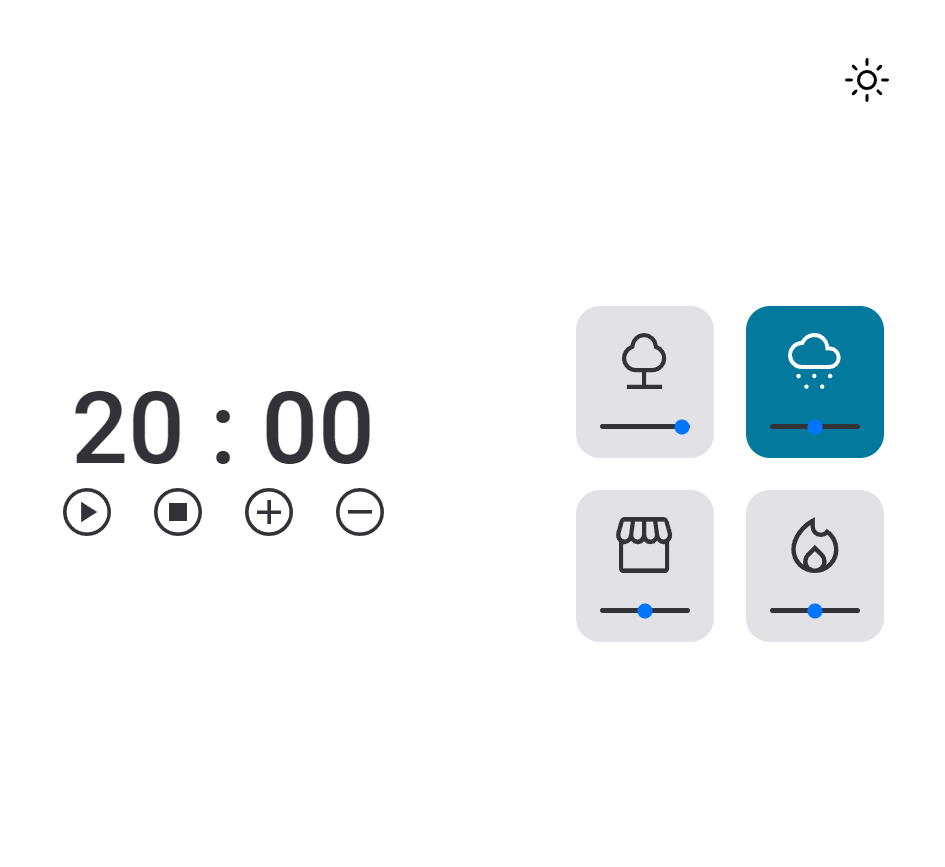
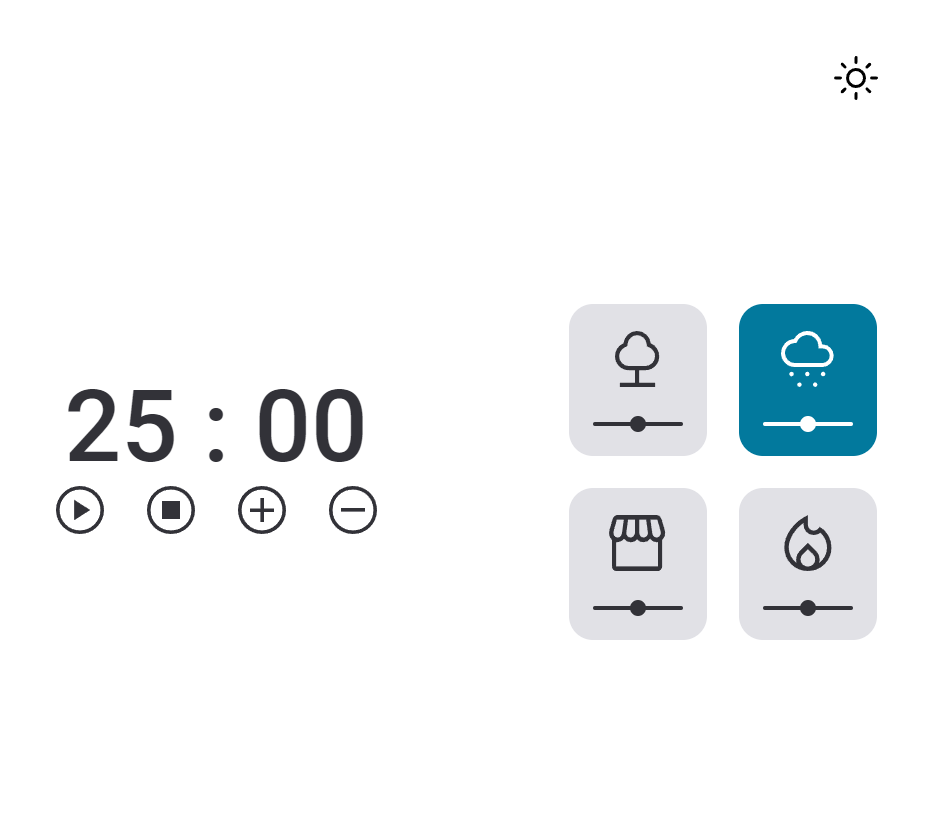
Add an prevent default kind of function to avoid bubbling effect from slider input and cards. Css Adjustments on the slider component.

Changed region(s): [[0.5925, 0.3333, 0.9667, 0.7879], [0.0624, 0.4545, 0.4054, 0.6667], [0.9043, 0.0606, 0.9355, 0.1212]]

diff --git a/index.html b/index.html
@@ -100,6 +100,7 @@
         <svg width="53" height="56" viewBox="0 0 53 56" fill="none" xmlns="http://www.w3.org/2000/svg">
           <path d="M10.5263 45.3333C9.91228 45.3333 9.375 45.1 8.91447 44.6333C8.45395 44.1667 8.22368 43.6222 8.22368 43C8.22368 42.3778 8.45395 41.8333 8.91447 41.3667C9.375 40.9 9.91228 40.6667 10.5263 40.6667C11.1404 40.6667 11.6776 40.9 12.1382 41.3667C12.5987 41.8333 12.8289 42.3778 12.8289 43C12.8289 43.6222 12.5987 44.1667 12.1382 44.6333C11.6776 45.1 11.1404 45.3333 10.5263 45.3333ZM42.1053 45.3333C41.4912 45.3333 40.9539 45.1 40.4934 44.6333C40.0329 44.1667 39.8026 43.6222 39.8026 43C39.8026 42.3778 40.0329 41.8333 40.4934 41.3667C40.9539 40.9 41.4912 40.6667 42.1053 40.6667C42.7193 40.6667 43.2566 40.9 43.7171 41.3667C44.1776 41.8333 44.4079 42.3778 44.4079 43C44.4079 43.6222 44.1776 44.1667 43.7171 44.6333C43.2566 45.1 42.7193 45.3333 42.1053 45.3333ZM18.4211 56C17.807 56 17.2697 55.7667 16.8092 55.3C16.3487 54.8333 16.1184 54.2889 16.1184 53.6667C16.1184 53.0444 16.3487 52.5 16.8092 52.0333C17.2697 51.5667 17.807 51.3333 18.4211 51.3333C19.0351 51.3333 19.5724 51.5667 20.0329 52.0333C20.4934 52.5 20.7237 53.0444 20.7237 53.6667C20.7237 54.2889 20.4934 54.8333 20.0329 55.3C19.5724 55.7667 19.0351 56 18.4211 56ZM26.3158 45.3333C25.7018 45.3333 25.1645 45.1 24.7039 44.6333C24.2434 44.1667 24.0132 43.6222 24.0132 43C24.0132 42.3778 24.2434 41.8333 24.7039 41.3667C25.1645 40.9 25.7018 40.6667 26.3158 40.6667C26.9298 40.6667 27.4671 40.9 27.9276 41.3667C28.3882 41.8333 28.6184 42.3778 28.6184 43C28.6184 43.6222 28.3882 44.1667 27.9276 44.6333C27.4671 45.1 26.9298 45.3333 26.3158 45.3333ZM34.2105 56C33.5965 56 33.0592 55.7667 32.5987 55.3C32.1382 54.8333 31.9079 54.2889 31.9079 53.6667C31.9079 53.0444 32.1382 52.5 32.5987 52.0333C33.0592 51.5667 33.5965 51.3333 34.2105 51.3333C34.8246 51.3333 35.3618 51.5667 35.8224 52.0333C36.2829 52.5 36.5132 53.0444 36.5132 53.6667C36.5132 54.2889 36.2829 54.8333 35.8224 55.3C35.3618 55.7667 34.8246 56 34.2105 56ZM13.8158 36C10 36 6.74342 34.6333 4.04605 31.9C1.34868 29.1667 0 25.8667 0 22C0 18.4889 1.23903 15.3556 3.7171 12.6C6.19518 9.84444 9.27632 8.33333 12.9605 8.06667C14.364 5.57778 16.2171 3.61111 18.5197 2.16667C20.8224 0.722222 23.4211 0 26.3158 0C30.307 0 33.6513 1.27778 36.3487 3.83333C39.0461 6.38889 40.7018 9.55556 41.3158 13.3333C44.7807 13.5111 47.5329 14.7 49.5724 16.9C51.6118 19.1 52.6316 21.6889 52.6316 24.6667C52.6316 27.7778 51.5461 30.4444 49.375 32.6667C47.2039 34.8889 44.5614 36 41.4474 36H13.8158ZM13.8158 32H41.4474C43.4649 32 45.1754 31.2778 46.5789 29.8333C47.9825 28.3889 48.6842 26.6444 48.6842 24.6C48.6842 22.6 47.9825 20.8889 46.5789 19.4667C45.1754 18.0444 43.4649 17.3333 41.4474 17.3333H37.5V15.3333C37.5 12.1778 36.4145 9.5 34.2434 7.3C32.0724 5.1 29.4298 4 26.3158 4C24.0789 4 22.0285 4.61111 20.1645 5.83333C18.3004 7.05556 16.9298 8.71111 16.0526 10.8L15.5263 12H13.6842C10.9649 12.0889 8.66228 13.1 6.77632 15.0333C4.89035 16.9667 3.94737 19.2889 3.94737 22C3.94737 24.7556 4.91228 27.1111 6.8421 29.0667C8.77193 31.0222 11.0965 32 13.8158 32Z" fill="#323238"/>
         </svg>
+
         <input class="volume-control" type="range" min="0" max="1" value="0.5" step="0.1" id="input-rain" />
       </button>
 
@@ -107,6 +108,7 @@
         <svg width="57" height="56" viewBox="0 0 57 56" fill="none" xmlns="http://www.w3.org/2000/svg">
           <path d="M53.1836 24.9667V51.3333C53.1836 52.5778 52.7657 53.6667 51.9298 54.6C51.0939 55.5333 50.1187 56 49.0043 56H7.14108C6.02659 56 5.0514 55.5333 4.21553 54.6C3.37966 53.6667 2.96173 52.5778 2.96173 51.3333V24.9667C1.66149 23.7222 0.802397 22.1926 0.384462 20.3778C-0.0334729 18.563 0.0129642 16.7481 0.523774 14.9333L3.51898 4.43333C3.89047 3.03333 4.5406 1.94444 5.46934 1.16667C6.39809 0.388889 7.46614 0 8.67351 0H47.1932C48.4934 0 49.6312 0.401852 50.6063 1.20556C51.5815 2.00926 52.2549 3.08519 52.6264 4.43333L55.6912 14.9333C56.202 16.7481 56.2369 18.563 55.7957 20.3778C55.3545 22.1926 54.4838 23.7222 53.1836 24.9667ZM34.3765 22.5556C35.7232 22.5556 36.8609 22.063 37.7897 21.0778C38.7184 20.0926 39.0899 18.9 38.9042 17.5L37.1628 4.66667H30.1972V17.5C30.1972 18.8481 30.5919 20.0278 31.3813 21.0389C32.1708 22.05 33.1692 22.5556 34.3765 22.5556ZM21.3509 22.5556C22.6511 22.5556 23.754 22.063 24.6595 21.0778C25.5651 20.0926 26.0178 18.9 26.0178 17.5V4.66667H19.0522L17.3108 17.5C17.1251 18.8481 17.4501 20.0278 18.286 21.0389C19.1219 22.05 20.1435 22.5556 21.3509 22.5556ZM8.67351 22.5556C9.788 22.5556 10.7516 22.1278 11.5642 21.2722C12.3769 20.4167 12.8529 19.3667 12.9922 18.1222L14.8032 4.66667H7.83764L4.63347 16.0222C4.1691 17.6296 4.35485 19.1204 5.19072 20.4944C6.02659 21.8685 7.18752 22.5556 8.67351 22.5556ZM47.4718 22.5556C48.9578 22.5556 50.1304 21.8815 50.9894 20.5333C51.8485 19.1852 52.0459 17.6815 51.5815 16.0222L48.3773 4.66667H41.4118L43.2228 18.1222C43.3621 19.3667 43.8381 20.4167 44.6508 21.2722C45.4634 22.1278 46.4038 22.5556 47.4718 22.5556ZM7.14108 51.3333H49.0043V27.1444C49.0507 27.1963 48.8998 27.2222 48.5515 27.2222C48.2032 27.2222 47.8433 27.2222 47.4718 27.2222C46.3109 27.2222 45.208 26.95 44.1632 26.4056C43.1183 25.8611 42.0851 25.0185 41.0635 23.8778C40.3205 24.9148 39.3917 25.7315 38.2773 26.3278C37.1628 26.9241 35.9322 27.2222 34.5855 27.2222C33.1924 27.2222 31.9966 27.0019 30.9982 26.5611C29.9998 26.1204 29.0362 25.3815 28.1075 24.3444C27.4109 25.2778 26.5286 25.9907 25.4606 26.4833C24.3925 26.9759 23.1851 27.2222 21.8385 27.2222C20.3989 27.2222 19.1219 26.937 18.0074 26.3667C16.8929 25.7963 15.9409 24.9667 15.1515 23.8778C14.037 24.9667 12.9457 25.7963 11.8777 26.3667C10.8096 26.937 9.74157 27.2222 8.67351 27.2222C8.34845 27.2222 8.035 27.2222 7.73316 27.2222C7.43131 27.2222 7.23395 27.1963 7.14108 27.1444V51.3333ZM49.0043 51.3333H7.14108C7.23395 51.3333 7.43131 51.3333 7.73316 51.3333C8.035 51.3333 8.34845 51.3333 8.67351 51.3333C9.46294 51.3333 10.4033 51.3333 11.4946 51.3333C12.5858 51.3333 13.8048 51.3333 15.1515 51.3333C15.5694 51.3333 16.0338 51.3333 16.5446 51.3333C17.0554 51.3333 17.6011 51.3333 18.1815 51.3333C18.762 51.3333 19.3541 51.3333 19.9578 51.3333C20.5614 51.3333 21.1883 51.3333 21.8385 51.3333C22.3493 51.3333 22.8833 51.3333 23.4406 51.3333C23.9978 51.3333 24.555 51.3333 25.1123 51.3333C25.6695 51.3333 26.2036 51.3333 26.7144 51.3333C27.2252 51.3333 27.6896 51.3333 28.1075 51.3333C29.1291 51.3333 30.1507 51.3333 31.1724 51.3333C32.194 51.3333 33.3317 51.3333 34.5855 51.3333C35.2356 51.3333 35.8741 51.3333 36.501 51.3333C37.1279 51.3333 37.72 51.3333 38.2773 51.3333C38.8345 51.3333 39.3453 51.3333 39.8097 51.3333C40.2741 51.3333 40.692 51.3333 41.0635 51.3333C42.1315 51.3333 43.1996 51.3333 44.2677 51.3333C45.3357 51.3333 46.4038 51.3333 47.4718 51.3333C47.8433 51.3333 48.2032 51.3333 48.5515 51.3333C48.8998 51.3333 49.0507 51.3333 49.0043 51.3333Z" fill="#323238"/>
         </svg>
+
         <input class="volume-control" type="range" min="0" max="1" value="0.5" step="0.1" id="input-store" />
       </button>
 
@@ -114,6 +116,7 @@
         <svg width="48" height="56" viewBox="0 0 48 56" fill="none" xmlns="http://www.w3.org/2000/svg">
           <path d="M4.72147 32.4211C4.72147 35.5158 5.42147 38.4263 6.82147 41.1526C8.22147 43.8789 10.1741 46.1509 12.6794 47.9684C12.4829 47.3789 12.3355 46.7772 12.2373 46.1632C12.139 45.5491 12.0899 44.9474 12.0899 44.3579C12.0899 42.786 12.3846 41.3123 12.9741 39.9368C13.5636 38.5614 14.4232 37.3088 15.553 36.1789L23.8794 28L32.2057 36.1789C33.3355 37.3088 34.1951 38.5614 34.7846 39.9368C35.3741 41.3123 35.6688 42.786 35.6688 44.3579C35.6688 44.9474 35.6197 45.5491 35.5215 46.1632C35.4232 46.7772 35.2759 47.3789 35.0794 47.9684C37.5846 46.1509 39.5373 43.8789 40.9373 41.1526C42.3373 38.4263 43.0373 35.5158 43.0373 32.4211C43.0373 29.7684 42.4723 27.1772 41.3425 24.6474C40.2127 22.1175 38.5916 19.7965 36.4794 17.6842C35.4478 18.4211 34.3671 18.9982 33.2373 19.4158C32.1074 19.8333 30.9776 20.0421 29.8478 20.0421C26.8513 20.0421 24.3706 19.0228 22.4057 16.9842C20.4408 14.9456 19.4583 12.3789 19.4583 9.28421V7.81053C17.1987 9.43158 15.1601 11.2246 13.3425 13.1895C11.525 15.1544 9.97761 17.2053 8.70041 19.3421C7.42322 21.4789 6.44076 23.6649 5.75305 25.9C5.06533 28.1351 4.72147 30.3088 4.72147 32.4211ZM23.8794 34.1895L18.6478 39.3474C17.9601 40.0351 17.432 40.7965 17.0636 41.6316C16.6952 42.4667 16.5109 43.3754 16.5109 44.3579C16.5109 46.3719 17.2232 48.0789 18.6478 49.4789C20.0723 50.8789 21.8162 51.5789 23.8794 51.5789C25.9425 51.5789 27.6864 50.8789 29.1109 49.4789C30.5355 48.0789 31.2478 46.3719 31.2478 44.3579C31.2478 43.3754 31.0636 42.4667 30.6951 41.6316C30.3267 40.7965 29.7987 40.0351 29.1109 39.3474L23.8794 34.1895ZM23.8794 0V9.72632C23.8794 11.3965 24.4566 12.7965 25.6109 13.9263C26.7653 15.0561 28.1776 15.6211 29.8478 15.6211C30.732 15.6211 31.5548 15.4368 32.3162 15.0684C33.0776 14.7 33.753 14.1474 34.3425 13.4105L35.6688 11.7895C39.3039 13.8526 42.1776 16.7263 44.2899 20.4105C46.4022 24.0947 47.4583 28.0982 47.4583 32.4211C47.4583 39.0035 45.1741 44.5789 40.6057 49.1474C36.0373 53.7158 30.4618 56 23.8794 56C17.2969 56 11.7215 53.7158 7.15305 49.1474C2.58463 44.5789 0.300415 39.0035 0.300415 32.4211C0.300415 26.1333 2.4127 20.0789 6.63726 14.2579C10.8618 8.43684 16.6092 3.68421 23.8794 0Z" fill="#323238"/>
         </svg>
+        
         <input class="volume-control" type="range" min="0" max="1" value="0.5" step="0.1" id="input-fire" />
       </button>
     

diff --git a/Js/main.js b/Js/main.js
@@ -91,6 +91,7 @@ buttonMinus.addEventListener('click', () => {
 });
 
 /* -- Cards -- */
+
 function resetCards() {
   cardForest.classList.remove('selected');
   cardRain.classList.remove('selected');
@@ -99,6 +100,10 @@ function resetCards() {
 };
 
 cardForest.addEventListener('click', () => {
+  volForest.addEventListener('click', function(event) {
+    event.stopPropagation();
+  });
+
   sound.soundsOff();
   sound.soundForest.play();
   let cardSelected = cardForest.classList.contains('selected');
@@ -113,6 +118,10 @@ cardForest.addEventListener('click', () => {
 });
 
 cardRain.addEventListener('click', () => {
+  volRain.addEventListener('click', function(event) {
+    event.stopPropagation();
+  });
+
   sound.soundsOff();
   sound.soundRain.play();
   let cardSelected = cardRain.classList.contains('selected');
@@ -127,6 +136,10 @@ cardRain.addEventListener('click', () => {
 });
 
 cardCoffeeShop.addEventListener('click', () => {
+  volStore.addEventListener('click', function(event) {
+    event.stopPropagation();
+  });
+
   sound.soundsOff();
   sound.soundCoffeeShop.play();
   let cardSelected = cardCoffeeShop.classList.contains('selected');
@@ -141,6 +154,10 @@ cardCoffeeShop.addEventListener('click', () => {
 });
 
 cardFire.addEventListener('click', () => {
+  volFire.addEventListener('click', function(event) {
+    event.stopPropagation();
+  });
+
   sound.soundsOff();
   sound.soundFire.play();
   let cardSelected = cardFire.classList.contains('selected');
@@ -154,11 +171,13 @@ cardFire.addEventListener('click', () => {
   };
 });
 
+/* -- Modes change -- */
+
 buttonLight.addEventListener('click', () => {
   buttonDark.classList.remove('hide');
   buttonLight.classList.add('hide');
   body.classList.add('darkMode');
-})
+});
 
 buttonDark.addEventListener('click', function() {
   buttonLight.classList.remove('hide');

diff --git a/style.css b/style.css
@@ -98,6 +98,14 @@ main {
   height: 15.2rem;
 }
 
+.selected input[type='range'] {
+  background: #FFFFFF;
+}
+
+.selected input[type='range']::-webkit-slider-thumb {
+  background: #FFFFFF;
+}
+
 .selected {
   background-color: var(--bg-cards-selected);
 }
@@ -106,50 +114,20 @@ main {
   fill: var(--secondary-color);
 }
 
-.cards button input {
-  margin-top: 3.2rem;
-  width: 9rem;
-  height: .4rem;
-  cursor: pointer;
-  
-}
-
-button input::-webkit-slider-thumb {
-  -webkit-appearance: none;
-  margin-top: -5px;
-  background: var(--primary-color);
-}
-
-button input::-webkit-slider-runnable-track {
-  background: var(--primary-color);
+input[type='range'] { 
+  -webkit-appearance: none; /* Propriedade que reseta o visual web padrão do slider */
+  background: var(--clock);
   border-radius: 5rem;
-  height: 0.5rem;
+  width: 9rem;
+  height: 0.4rem;
+  margin-top: 3.2rem;
+  cursor: pointer;
 }
 
-/*
-.volume-control::-webkit-slider-thumb {
-  -webkit-appearance: none;
-  border: none;
-  height: 1.6rem;
+input[type='range']::-webkit-slider-thumb { 
+  -webkit-appearance: none; /* Propriedade que reseta o visual web padrão da bolinha do slider */
+  background: var(--clock);
   width: 1.6rem;
+  height: 1.6rem;
   border-radius: 5rem;
-  background: var(--text-color);
-  margin-top: -5px;
-}
-
-.volume-control::-webkit-slider-runnable-track {
-  height: 0.5rem;
-  background: var(--text-color);
-  border-radius: 5rem;
-}
-
-
-.volume-control {
-  margin-top: 3.2rem;
-  width: 9rem;
-  height: .4rem;
-  cursor: pointer;
-  appearance: none;
-  background-color: var(--primary-color);
-  color: var(--primary-color);
 }
